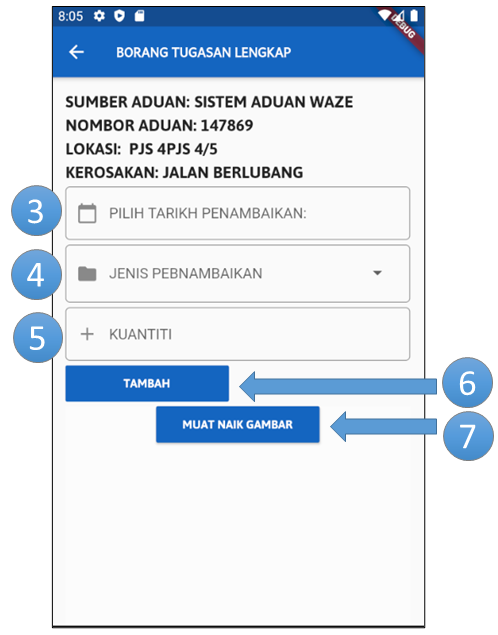
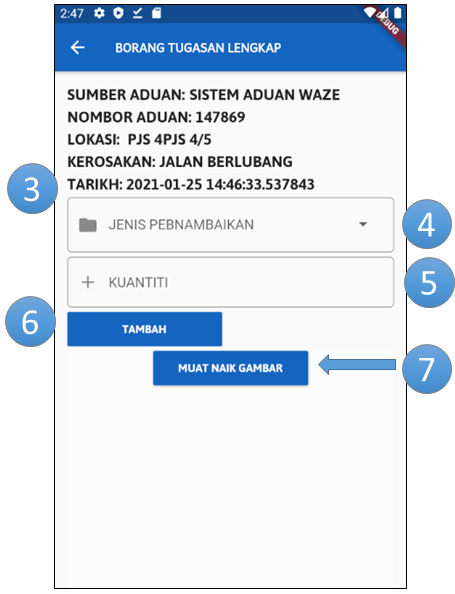
latest sesangat

Changed region(s): [[0.0, 0.0, 1.0, 1.0]]

diff --git a/lib/screen/RoadGang/usermanual_roadgang.dart b/lib/screen/RoadGang/usermanual_roadgang.dart
@@ -18,19 +18,13 @@ class _UserManualRoadGangState extends State<UserManualRoadGang> {
           child: Container(
               child: Column(
                 children:[
-                  Container(
-                    alignment: Alignment.center,
-                    child:  Image.asset("assets/9.png", height: 370, width: 290, fit: BoxFit.cover,),
-                  ),
+                  SizedBox(child: Image.asset("assets/9.png", height: 370, width: 290, fit: BoxFit.cover)),
                   Container(
                     alignment: Alignment.centerLeft,
                     child: Text(" 1. Sila klik button ini untuk pergi ke halaman senarai tugasan penyelia ", style: GoogleFonts.andika(fontWeight: FontWeight.bold, fontSize: 14)),
                   ),
                   SizedBox(height: 15.0,),
-                  Container(
-                    margin: EdgeInsets.only(left: 50, right: 60),
-                    child:Image.asset("assets/10(1).png", height: 370, width: 290, fit: BoxFit.cover,),
-                  ),
+                  SizedBox( child:Image.asset("assets/10(1).png", height: 370, width: 290, fit: BoxFit.cover,)),
                   Container(
                     alignment: Alignment.centerLeft,
                     child: Column(
@@ -40,10 +34,7 @@ class _UserManualRoadGangState extends State<UserManualRoadGang> {
                     ),
                   ),
                   SizedBox(height: 15.0,),
-                  Container(
-                    margin: EdgeInsets.only(left: 58),
-                    child:Image.asset("assets/10(2).png", height: 350, width: 300, fit: BoxFit.cover,),
-                  ),
+                  SizedBox(  child:Container(margin: EdgeInsets.only(left: 45),child: Image.asset("assets/10(2).png", height: 370, width: 290, fit: BoxFit.cover,)),),
                   Container(
                     alignment: Alignment.centerLeft,
                     child: Column(
@@ -57,10 +48,8 @@ class _UserManualRoadGangState extends State<UserManualRoadGang> {
                     ),
                   ),
                   SizedBox(height: 15.0,),
-                  Container(
-                    margin: EdgeInsets.only(left: 58),
-                    child:Image.asset("assets/11(1).png", height: 350, width: 300, fit: BoxFit.cover,),
-                  ),
+                  SizedBox(child:Container(margin: EdgeInsets.only(left: 40),child: Image.asset("assets/11(1).png", height: 370, width: 290, fit: BoxFit.cover,))),
+
                   Container(
                     alignment: Alignment.centerLeft,
                     child: Column(
@@ -71,10 +60,7 @@ class _UserManualRoadGangState extends State<UserManualRoadGang> {
                     ),
                   ),
                   SizedBox(height: 15.0,),
-                  Container(
-                    margin: EdgeInsets.only(left: 100),
-                    child:Image.asset("assets/11(2).png", height: 380, width: 300, fit: BoxFit.cover,),
-                  ),
+                  SizedBox(  child:Image.asset("assets/11(2).png", height: 380, width: 300, fit: BoxFit.cover,),),
                   Container(
                     alignment: Alignment.centerLeft,
                     child: Column(
@@ -84,10 +70,7 @@ class _UserManualRoadGangState extends State<UserManualRoadGang> {
                     ),
                   ),
                   SizedBox(height: 15.0,),
-                  Container(
-                    margin: EdgeInsets.only(left: 20),
-                    child:Image.asset("assets/12(1).png", height: 450, width: 250, fit: BoxFit.cover,),
-                  ),
+                  SizedBox( child:Image.asset("assets/12(1).png", height: 450, width: 250, fit: BoxFit.cover,)),
                   Container(
                   margin: EdgeInsets.only(left: 40),
                     child: Column(

diff --git a/lib/screen/supervisor/usermanual_supervisor.dart b/lib/screen/supervisor/usermanual_supervisor.dart
@@ -21,13 +21,13 @@ class _UsermanualSupervisorState extends State<UsermanualSupervisor> {
                     alignment: Alignment.centerLeft,
                     child: Text("PENGESAHAN TUGASAN UNTUK PEGAWAI MEREKOD ", style: GoogleFonts.andika(fontWeight: FontWeight.bold, fontSize: 14), maxLines: 5,),
                   ),
-                  SizedBox(child: Container(margin:EdgeInsets.only(right: 40),child: Image.asset("assets/3.png", height:400, width: 310, fit: BoxFit.cover,))),
+                  SizedBox(child: Container(margin:EdgeInsets.only(right: 50),child: Image.asset("assets/3.png", height:400, width: 310, fit: BoxFit.cover,))),
                   Container(
                     alignment: Alignment.centerLeft,
                     child: Text(" 1. Sila klik ikon ini untuk pergi ke halaman senarai semua tugasan  ", style: GoogleFonts.andika(fontWeight: FontWeight.bold, fontSize: 14)),
                   ),
                   SizedBox(height: 15.0),
-                  SizedBox(child: Container(margin: EdgeInsets.only(right: 70),child: Image.asset("assets/4(1).png", height: 400, width: 320, fit: BoxFit.cover,))),
+                  SizedBox(child: Container(margin: EdgeInsets.only(right: 60),child: Image.asset("assets/4(1).png", height: 400, width: 320, fit: BoxFit.cover,))),
                   Container(
                     alignment: Alignment.centerLeft,
                     child: Column(
@@ -62,7 +62,7 @@ class _UsermanualSupervisorState extends State<UsermanualSupervisor> {
                     alignment: Alignment.centerLeft,
                     child: Text("PENGESAHAN TUGASAN UNTUK ROAD GANG ", style: GoogleFonts.andika(fontWeight: FontWeight.bold, fontSize: 14), maxLines: 5,),
                   ),
-                  SizedBox(child: Container(margin: EdgeInsets.only(right: 80),child: Image.asset("assets/6.png", height: 400, width: 310, fit: BoxFit.cover,))),
+                  SizedBox(child: Container(margin: EdgeInsets.only(right: 70),child: Image.asset("assets/6.png", height: 400, width: 310, fit: BoxFit.cover,))),
                   Container(
                     alignment: Alignment.centerLeft,
                     child: Column(

diff --git a/lib/screen/RecordOfficer/UserManualRecordOfficer.dart b/lib/screen/RecordOfficer/UserManualRecordOfficer.dart
@@ -27,11 +27,14 @@ class _UserManualRecordOfficerState extends State<UserManualRecordOfficer> {
                  SizedBox(height: 15.0,),
                  SizedBox(child: Container(margin: EdgeInsets.only(right: 70),child: Image.asset("assets/2.png", height: 370, width: 250, fit: BoxFit.cover,))),
                  Container(
+                   alignment: Alignment.centerLeft,
+                   child:Text(" 2. Tarikh ini akan dijana secara automatik", style: GoogleFonts.andika(fontWeight: FontWeight.bold, fontSize: 14)),
+                 ),
+                 Container(
                    color: Colors.white70,
-                   alignment: Alignment.topCenter,
+                   alignment: Alignment.centerLeft,
                    child: Column(
                      children: [
-                       Text(" 2. Sila isi pilih tarikh berdasarkan hari bekerja. Tarikh ini wajib diisi. ", style: GoogleFonts.andika(fontWeight: FontWeight.bold, fontSize: 14), maxLines: 5,),
                        Text(" 3. Sila pilih tiga jenis sumber aduan sama ada SISTEM ADUAN MBPJ, SISTEM ADUAN WAZE atau SISTEM ADUAN UTILITI. Sumber aduan ini wajib diisi. ", style: GoogleFonts.andika(fontWeight: FontWeight.bold, fontSize: 14), maxLines: 5,),
                        Text(" 4. Sila isi nombor aduan berdasarkan jenis sumber aduan. Nombor aduan ini wajib diisi.", style: GoogleFonts.andika(fontWeight: FontWeight.bold, fontSize: 14), maxLines: 5,),
                        Text(" 5. Sila  pilih lokasi kawasan tugasan sama ada PJS 1, PJS 2 dan sebagainya. Lokasi ini wajib diisi. ", style: GoogleFonts.andika(fontWeight: FontWeight.bold, fontSize: 14), maxLines: 5,),

diff --git a/lib/screen/RecordOfficer/addTask.dart b/lib/screen/RecordOfficer/addTask.dart
@@ -319,20 +319,9 @@ class _AddTaskState extends State<AddTask> {
           child: Column(
             crossAxisAlignment: CrossAxisAlignment.end,
             children: <Widget>[
-              TextField(
-                decoration: InputDecoration(
-                    labelText: "PILIH TARIKH",
-                    prefixIcon: Icon(Icons.calendar_today),
-                    hintText: _dateTime.toString(),
-                    border: OutlineInputBorder(borderRadius: BorderRadius.circular(5))),
-                readOnly: true,
-                 onChanged: (value){
-                  setState(() {
-                    _dateTime = value as DateTime;
-                    print(_dateTime);
-                  });
-                 },
-              ),
+              Container(
+                  margin: EdgeInsets.only(right: 88),
+                  child: Text("TARIKH: "+ _dateTime.toString(), style: GoogleFonts.asap(fontWeight: FontWeight.bold, fontSize: 18))),
               SizedBox(height: 10.0),
               DropdownButtonFormField(
                 decoration: InputDecoration(

diff --git a/lib/screen/RoadGang/addCompleteTask.dart b/lib/screen/RoadGang/addCompleteTask.dart
@@ -227,19 +227,9 @@ class _AddCompleteTaskState extends State<AddCompleteTask> {
                 ],
               ),
               SizedBox(height: 5.0),
-              TextFormField(
-                decoration: InputDecoration(
-                    labelText: "PILIH TARIKH PENAMBAIKAN: ",
-                    prefixIcon: Icon(Icons.calendar_today),
-                    hintText: _dateTime.toString(),
-                    border: OutlineInputBorder(
-                        borderRadius: BorderRadius.circular(5))),
-                 onChanged: (value){
-                  setState(() {
-                    _dateTime = value as DateTime;
-                  });
-                 },
-              ),
+              Container(
+                  margin: EdgeInsets.only(right: 88),
+                  child: Text("TARIKH: "+ _dateTime.toString(), style: GoogleFonts.asap(fontWeight: FontWeight.bold, fontSize: 18))),
               SizedBox(height: 5.0),
               ListView.separated(
                 shrinkWrap: true,
